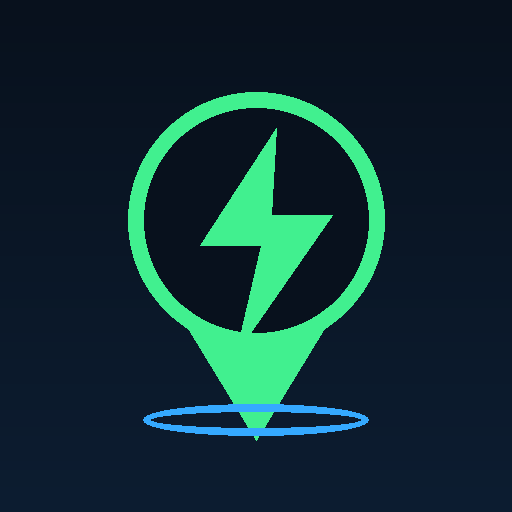
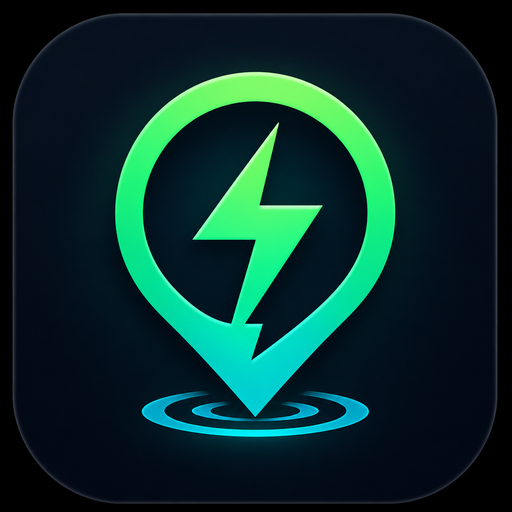
Add files via upload

diff --git a/index.html b/index.html
@@ -5,7 +5,6 @@
 <meta charset="utf-8">
 <meta name="viewport" content="width=device-width,initial-scale=1,viewport-fit=cover">
 <title>MolaVolt</title>
-<meta name="theme-color" content="#07111d">
 <link rel="stylesheet" href="https://unpkg.com/leaflet@1.9.4/dist/leaflet.css">
 <style>
 :root{--bg:#07111d;--card:#0d1b2c;--line:rgba(255,255,255,.12);--text:#edf5ff;--muted:#91a8bf;--green:#35ef8d;--blue:#39aaff;--yellow:#ffe081;--shadow:0 18px 45px rgba(0,0,0,.30)}
@@ -142,6 +141,9 @@
 @media(max-width:380px){.reportGrid{grid-template-columns:1fr}.couponActions button,.couponActions a{min-width:100%}}
 
 </style>
+  <link rel="manifest" href="/manifest.json">
+  <meta name="theme-color" content="#07111d">
+  <link rel="apple-touch-icon" href="/icon-192.png">
 </head>
 <body>
 <div class="app">
